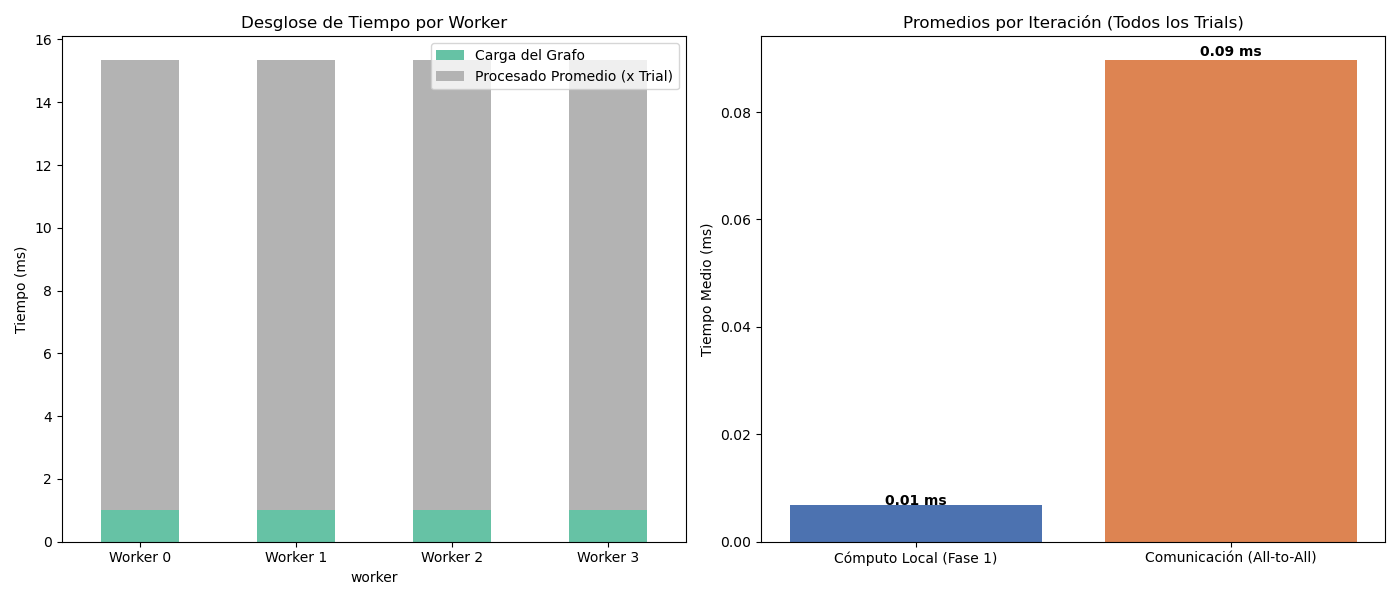
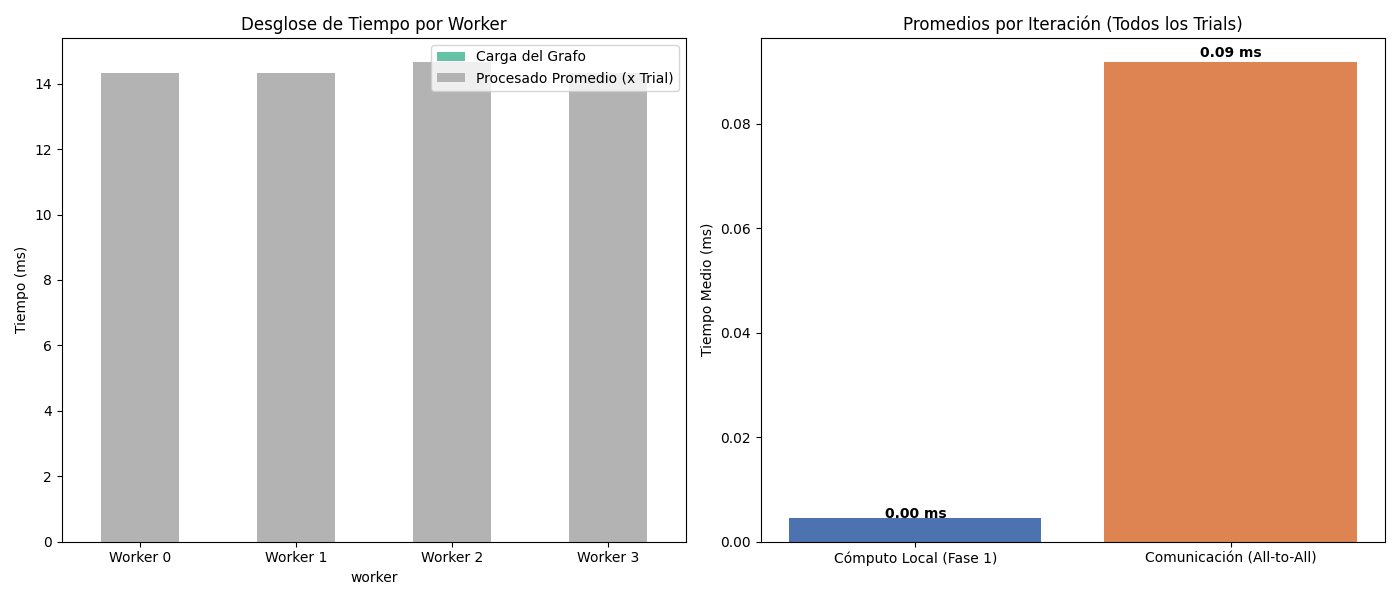
fix: Error in parsing caused unexpected crashes of the program

diff --git a/bfs-bcm-all-to-all/src/gapbs_parser.rs b/bfs-bcm-all-to-all/src/gapbs_parser.rs
@@ -52,12 +52,17 @@ impl Graph {
     pub fn from_sg_file<P: AsRef<Path>>(path: P) -> Self {
         let mut file = File::open(path).expect("Failed to open .sg file");
         
-        let mut u64_buf = [0u8; 8];
-        file.read_exact(&mut u64_buf).expect("Failed to read num_nodes");
-        let num_nodes = u64_le(&u64_buf) as usize;
+        let mut bool_buf = [0u8; 1];
+        file.read_exact(&mut bool_buf).expect("Failed to read directed flag");
+        let _directed = bool_buf[0] != 0;
 
+        let mut u64_buf = [0u8; 8];
+        
         file.read_exact(&mut u64_buf).expect("Failed to read num_edges");
         let _num_edges = u64_le(&u64_buf) as usize;
+
+        file.read_exact(&mut u64_buf).expect("Failed to read num_nodes");
+        let num_nodes = u64_le(&u64_buf) as usize;
 
         let mut offsets = vec![0usize; num_nodes + 1];
         for i in 0..=num_nodes {